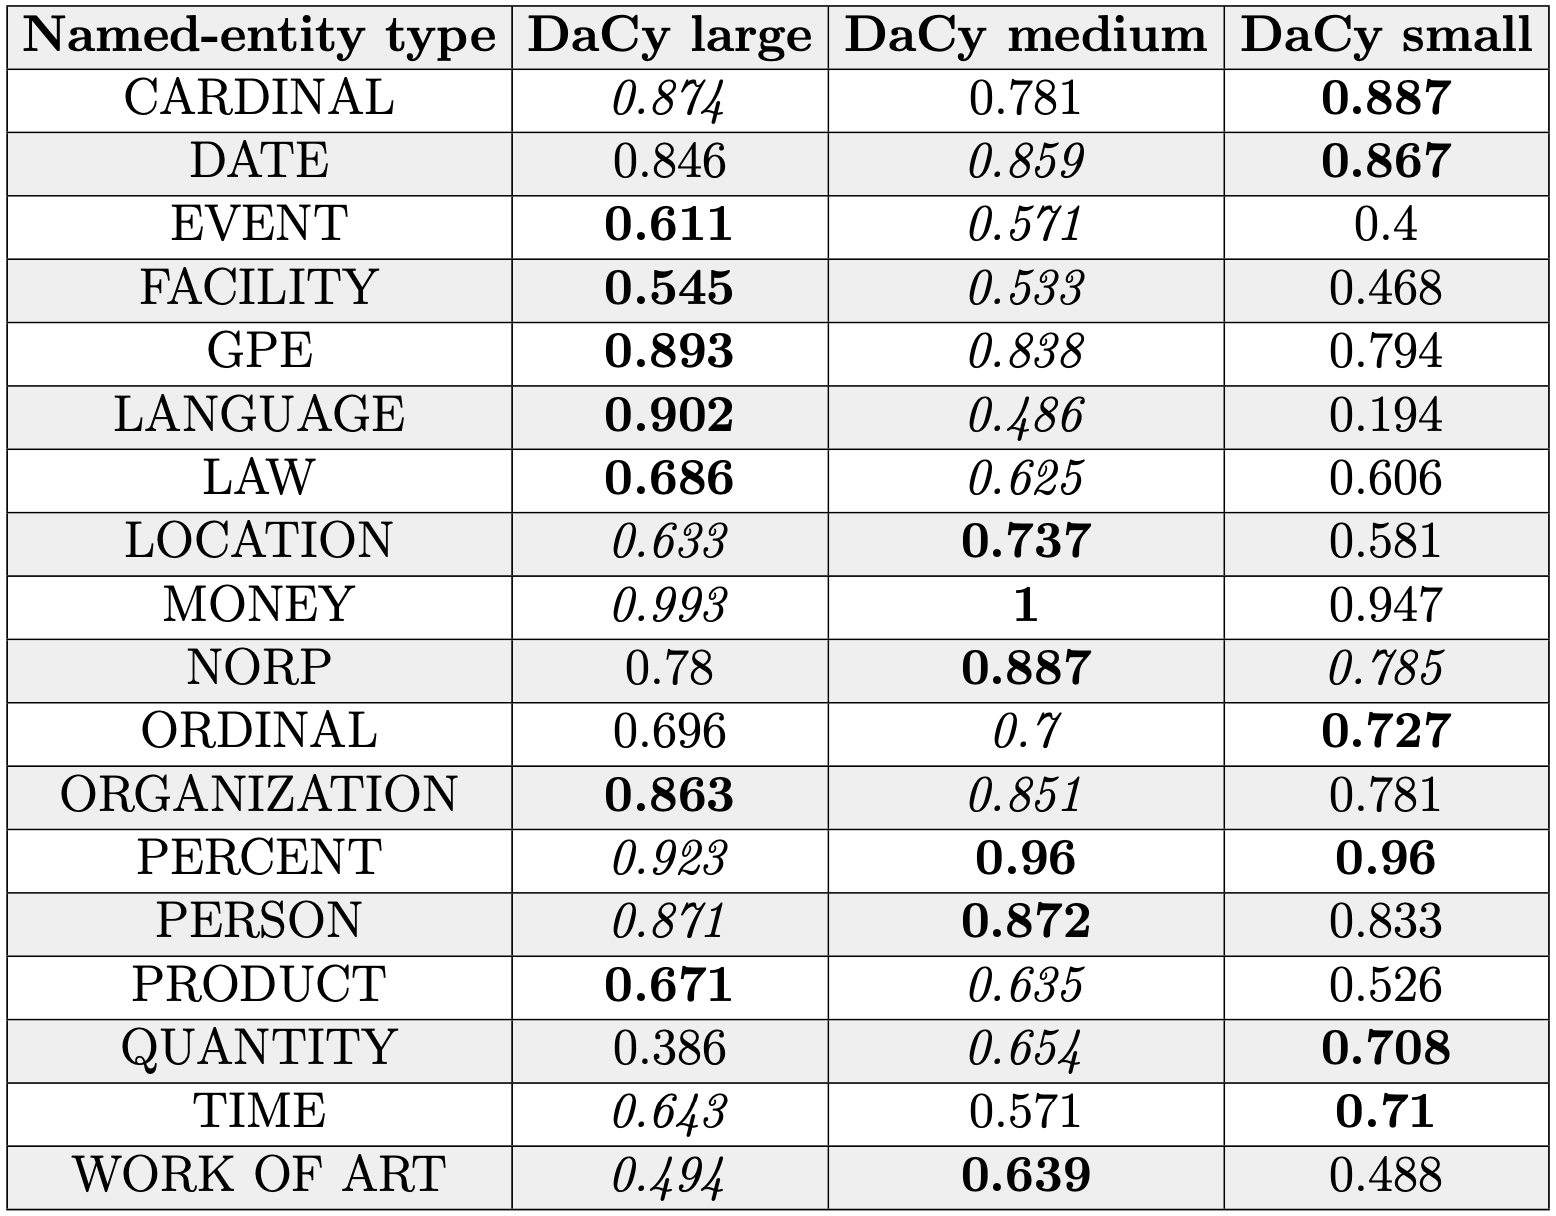
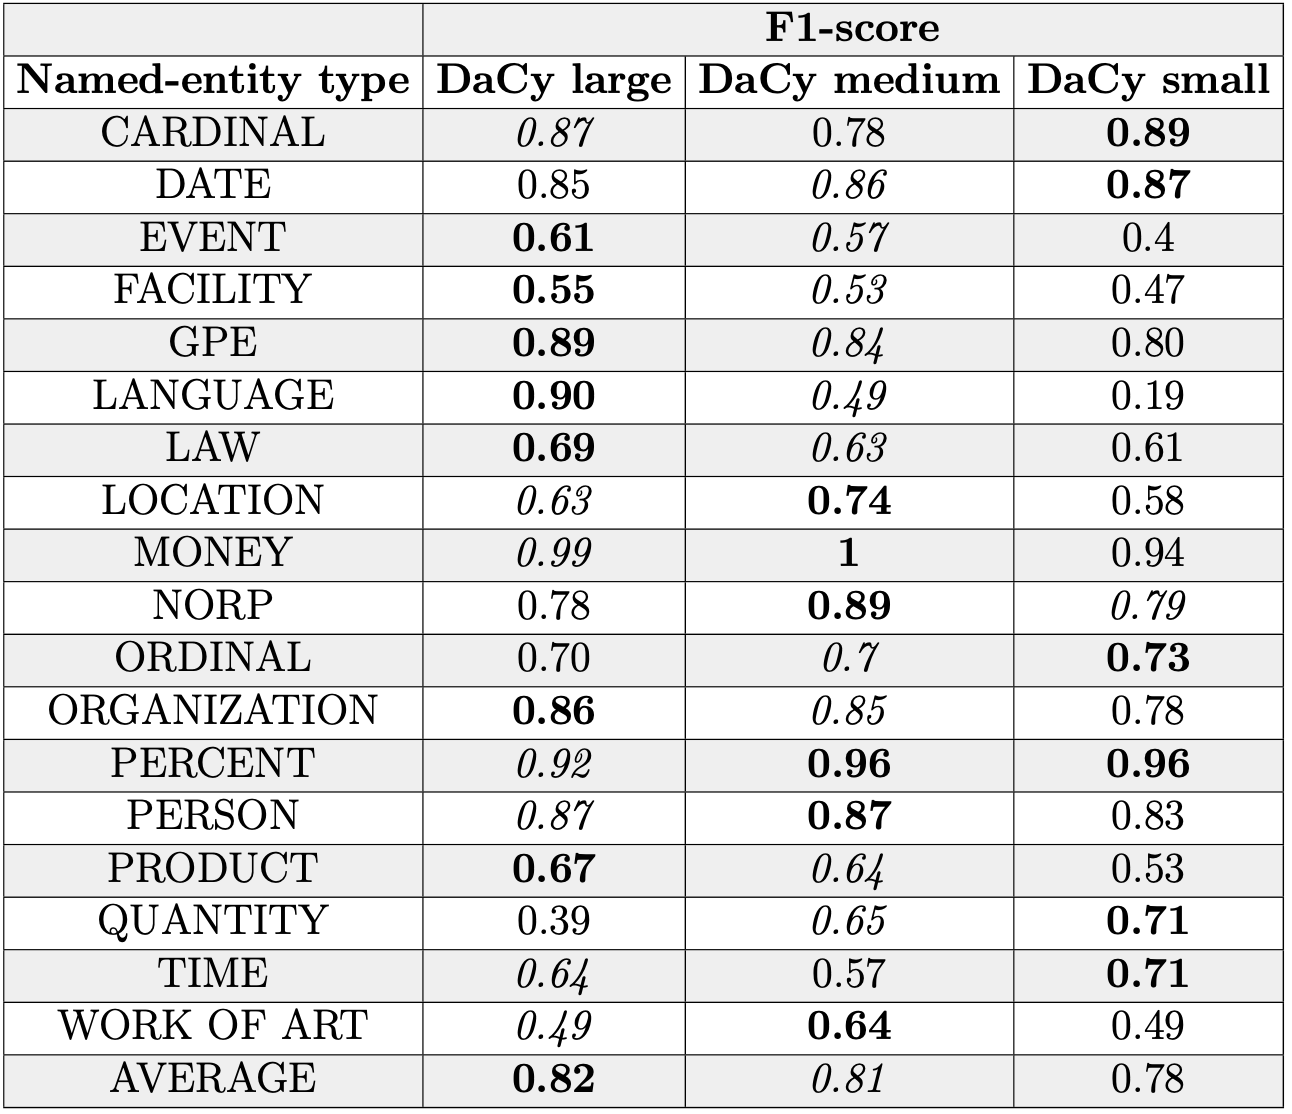
new table within tags for fine-grained models

Changed region(s): [[0.0, 0.0, 1.0, 1.0]]

diff --git a/docs/performance.robustness.rst b/docs/performance.robustness.rst
@@ -56,9 +56,6 @@ These show some general trends, some of which include:
 Named entity recognition
 ^^^^^^^^^^^^^^^^^^^^^^^^^^^^^^
 
-DaCy
-““““““““““““““““““““““““““““““
-
 In the following table we see a the performance on named entity recognition (NER) of Danish NLP pipelines
 reported as average F1 scores excluding the MISC category. We have highlighted the best scores in
 bold and second best are underlined. The "*" denotes that the result is significantly different 
@@ -89,8 +86,8 @@ Besides the general trends mentioned above we can also note that:
 
 * Lack of casing is detrimental for NER for the cased models, most notably Flair, the SpaCy models, DaCy large and DaCy small. 
 
-DaCy fine-grained on the DANSK dataset
-““““““““““““““““““““““““““““““
+Fine-grained named entity recognition
+^^^^^^^^^^^^^^^^^^^^^^^^^^^^^^
 
 In the following two tables we see the performance on named entity recognition (NER) on the DANSK dataset 
 by the 3 DaCy fine-grained models. The first table shows the performance within each of the named entity classes,
